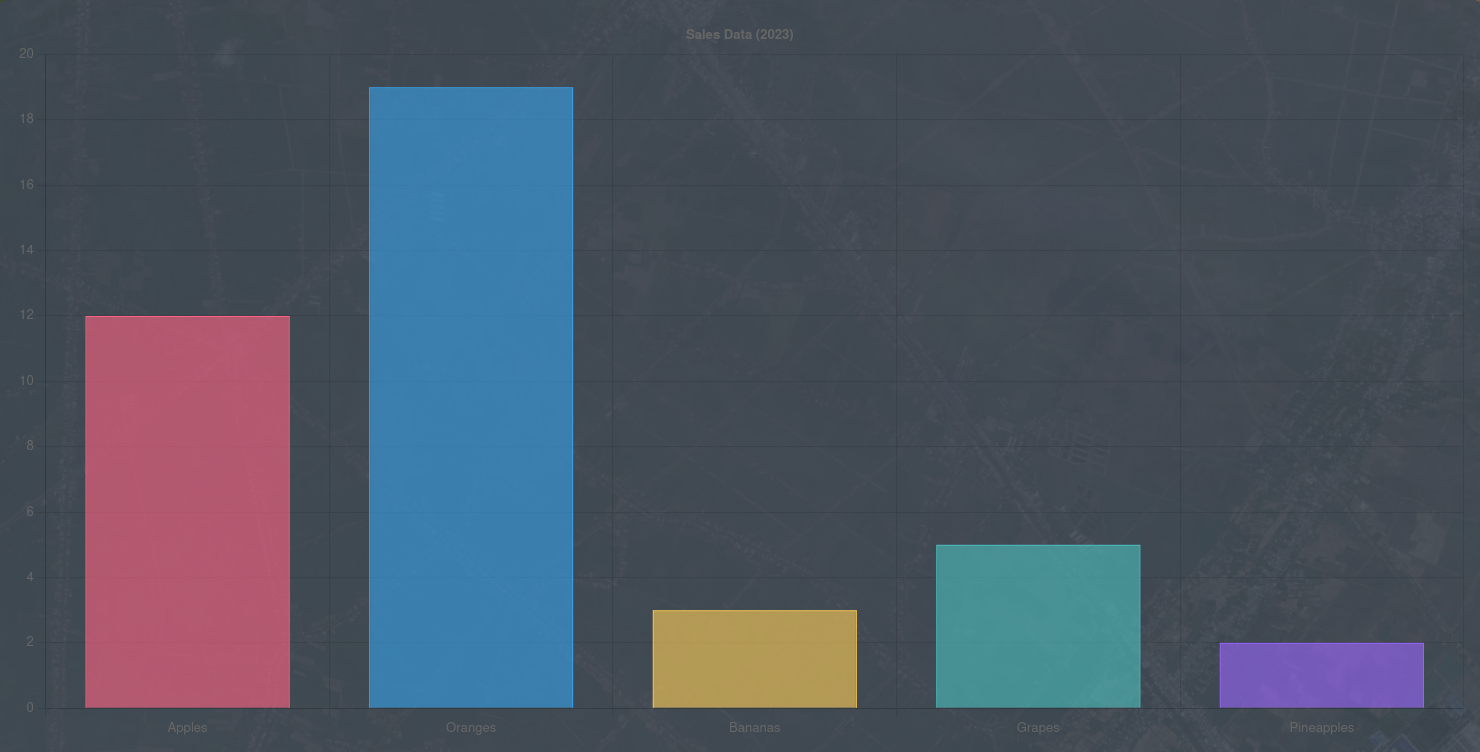
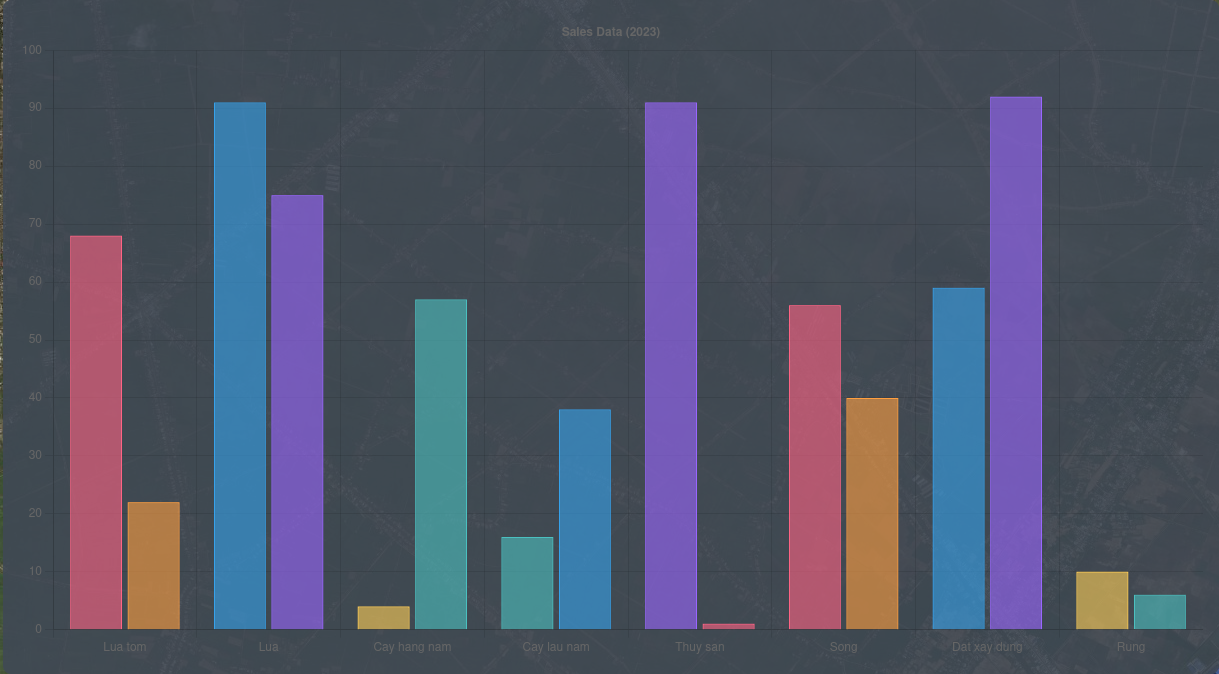
upload

diff --git a/src/components/charts/PieChart.jsx b/src/components/charts/PieChart.jsx
@@ -5,28 +5,38 @@ import { Chart as ChartJS, ArcElement, Tooltip, Legend } from 'chart.js';
 ChartJS.register(ArcElement, Tooltip, Legend);
 
 const PieChart = ({ isExpanded }) => {
-    const data = {
-        labels: ['Red', 'Blue', 'Yellow', 'Green', 'Purple', 'Orange'],
+    const colors = [
+        'rgba(255, 99, 132, 0.6)',
+        'rgba(54, 162, 235, 0.6)',
+        'rgba(255, 206, 86, 0.6)',
+        'rgba(75, 192, 192, 0.6)',
+        'rgba(153, 102, 255, 0.6)',
+        'rgba(255, 159, 64, 0.6)',
+        'rgba(201, 203, 207, 0.6)',
+        'rgba(100, 181, 246, 0.6)',
+    ];
+
+    const data1 = {
+        labels: ['Lua tom', 'Lua', 'Cay hang nam', 'Cay lau nam', 'Thuy san', 'Song', 'Dat xay dung', 'Rung'],
         datasets: [
             {
-                label: '# of Votes',
-                data: [12, 19, 3, 5, 2, 3],
-                backgroundColor: [
-                    'rgba(255, 99, 132, 0.6)',
-                    'rgba(54, 162, 235, 0.6)',
-                    'rgba(255, 206, 86, 0.6)',
-                    'rgba(75, 192, 192, 0.6)',
-                    'rgba(153, 102, 255, 0.6)',
-                    'rgba(255, 159, 64, 0.6)',
-                ],
-                borderColor: [
-                    'rgba(255, 99, 132, 1)',
-                    'rgba(54, 162, 235, 1)',
-                    'rgba(255, 206, 86, 1)',
-                    'rgba(75, 192, 192, 1)',
-                    'rgba(153, 102, 255, 1)',
-                    'rgba(255, 159, 64, 1)',
-                ],
+                label: 'Fruit Sales 2023 (in tons)',
+                data: [68, 91, 4, 16, 91, 56, 59, 10],
+                backgroundColor: colors,
+                borderColor: colors.map((color) => color.replace('0.6', '1')),
+                borderWidth: 1,
+            },
+        ],
+    };
+
+    const data2 = {
+        labels: ['Lua tom', 'Lua', 'Cay hang nam', 'Cay lau nam', 'Thuy san', 'Song', 'Dat xay dung', 'Rung'],
+        datasets: [
+            {
+                label: 'Fruit Sales Duplicate (in tons)',
+                data: [22, 75, 57, 38, 1, 40, 92, 6],
+                backgroundColor: colors,
+                borderColor: colors.map((color) => color.replace('0.6', '1')),
                 borderWidth: 1,
             },
         ],
@@ -54,10 +64,10 @@ const PieChart = ({ isExpanded }) => {
             {/* Two Pie Charts Side by Side */}
             <div className={`w-full h-[70%] flex justify-center grow items-center ${isExpanded ? 'mb-4' : 'mb-0'}`}>
                 <div className="w-[48%] h-full flex items-center justify-center">
-                    <Pie data={data} options={options} />
+                    <Pie data={data1} options={options} />
                 </div>
                 <div className="w-[48%] h-full flex items-center justify-center">
-                    <Pie data={data} options={options} />
+                    <Pie data={data2} options={options} />
                 </div>
             </div>
 
@@ -70,11 +80,11 @@ const PieChart = ({ isExpanded }) => {
                     transition: 'transform 0.3s ease-in-out',
                 }}
             >
-                {data.labels.map((label, index) => (
+                {data1.labels.map((label, index) => (
                     <div key={label} className="flex items-center space-x-2">
                         <div
                             style={{
-                                backgroundColor: data.datasets[0].backgroundColor[index],
+                                backgroundColor: data1.datasets[0].backgroundColor[index],
                             }}
                             className="w-4 h-4"
                         ></div>

diff --git a/src/components/charts/BarChart.jsx b/src/components/charts/BarChart.jsx
@@ -5,11 +5,11 @@ ChartJS.register(CategoryScale, LinearScale, BarElement, Title, Tooltip, Legend)
 
 const BarChart = () => {
     const data = {
-        labels: ['Apples', 'Oranges', 'Bananas', 'Grapes', 'Pineapples'],
+        labels: ['Lua tom', 'Lua', 'Cay hang nam', 'Cay lau nam', 'Thuy san', 'Song', 'Dat xay dung', 'Rung'],
         datasets: [
             {
                 label: 'Fruit Sales 2023 (in tons)',
-                data: [12, 19, 3, 5, 2],
+                data: [68, 91, 4, 16, 91, 56, 59, 10],
                 backgroundColor: [
                     'rgba(255, 99, 132, 0.6)',
                     'rgba(54, 162, 235, 0.6)',
@@ -23,6 +23,25 @@ const BarChart = () => {
                     'rgba(255, 206, 86, 1)',
                     'rgba(75, 192, 192, 1)',
                     'rgba(153, 102, 255, 1)',
+                ],
+                borderWidth: 1,
+            },
+            {
+                label: 'Fruit Sales Duplicate (in tons)',
+                data: [22, 75, 57, 38, 1, 40, 92, 6], // Same data as the first dataset
+                backgroundColor: [
+                    'rgba(255, 159, 64, 0.6)',
+                    'rgba(153, 102, 255, 0.6)',
+                    'rgba(75, 192, 192, 0.6)',
+                    'rgba(54, 162, 235, 0.6)',
+                    'rgba(255, 99, 132, 0.6)',
+                ],
+                borderColor: [
+                    'rgba(255, 159, 64, 1)',
+                    'rgba(153, 102, 255, 1)',
+                    'rgba(75, 192, 192, 1)',
+                    'rgba(54, 162, 235, 1)',
+                    'rgba(255, 99, 132, 1)',
                 ],
                 borderWidth: 1,
             },

diff --git a/src/features/setting/settingSlice.jsx b/src/features/setting/settingSlice.jsx
@@ -40,11 +40,6 @@ const initialState = {
             image: '/images/chartStyles/barChart.png',
             element: BarChart,
         },
-        lineChart: {
-            title: 'line chart',
-            image: '/images/chartStyles/lineChart.png',
-            element: LineChart,
-        },
         pieChart: {
             title: 'pie chart',
             image: '/images/chartStyles/pieChart.png',
